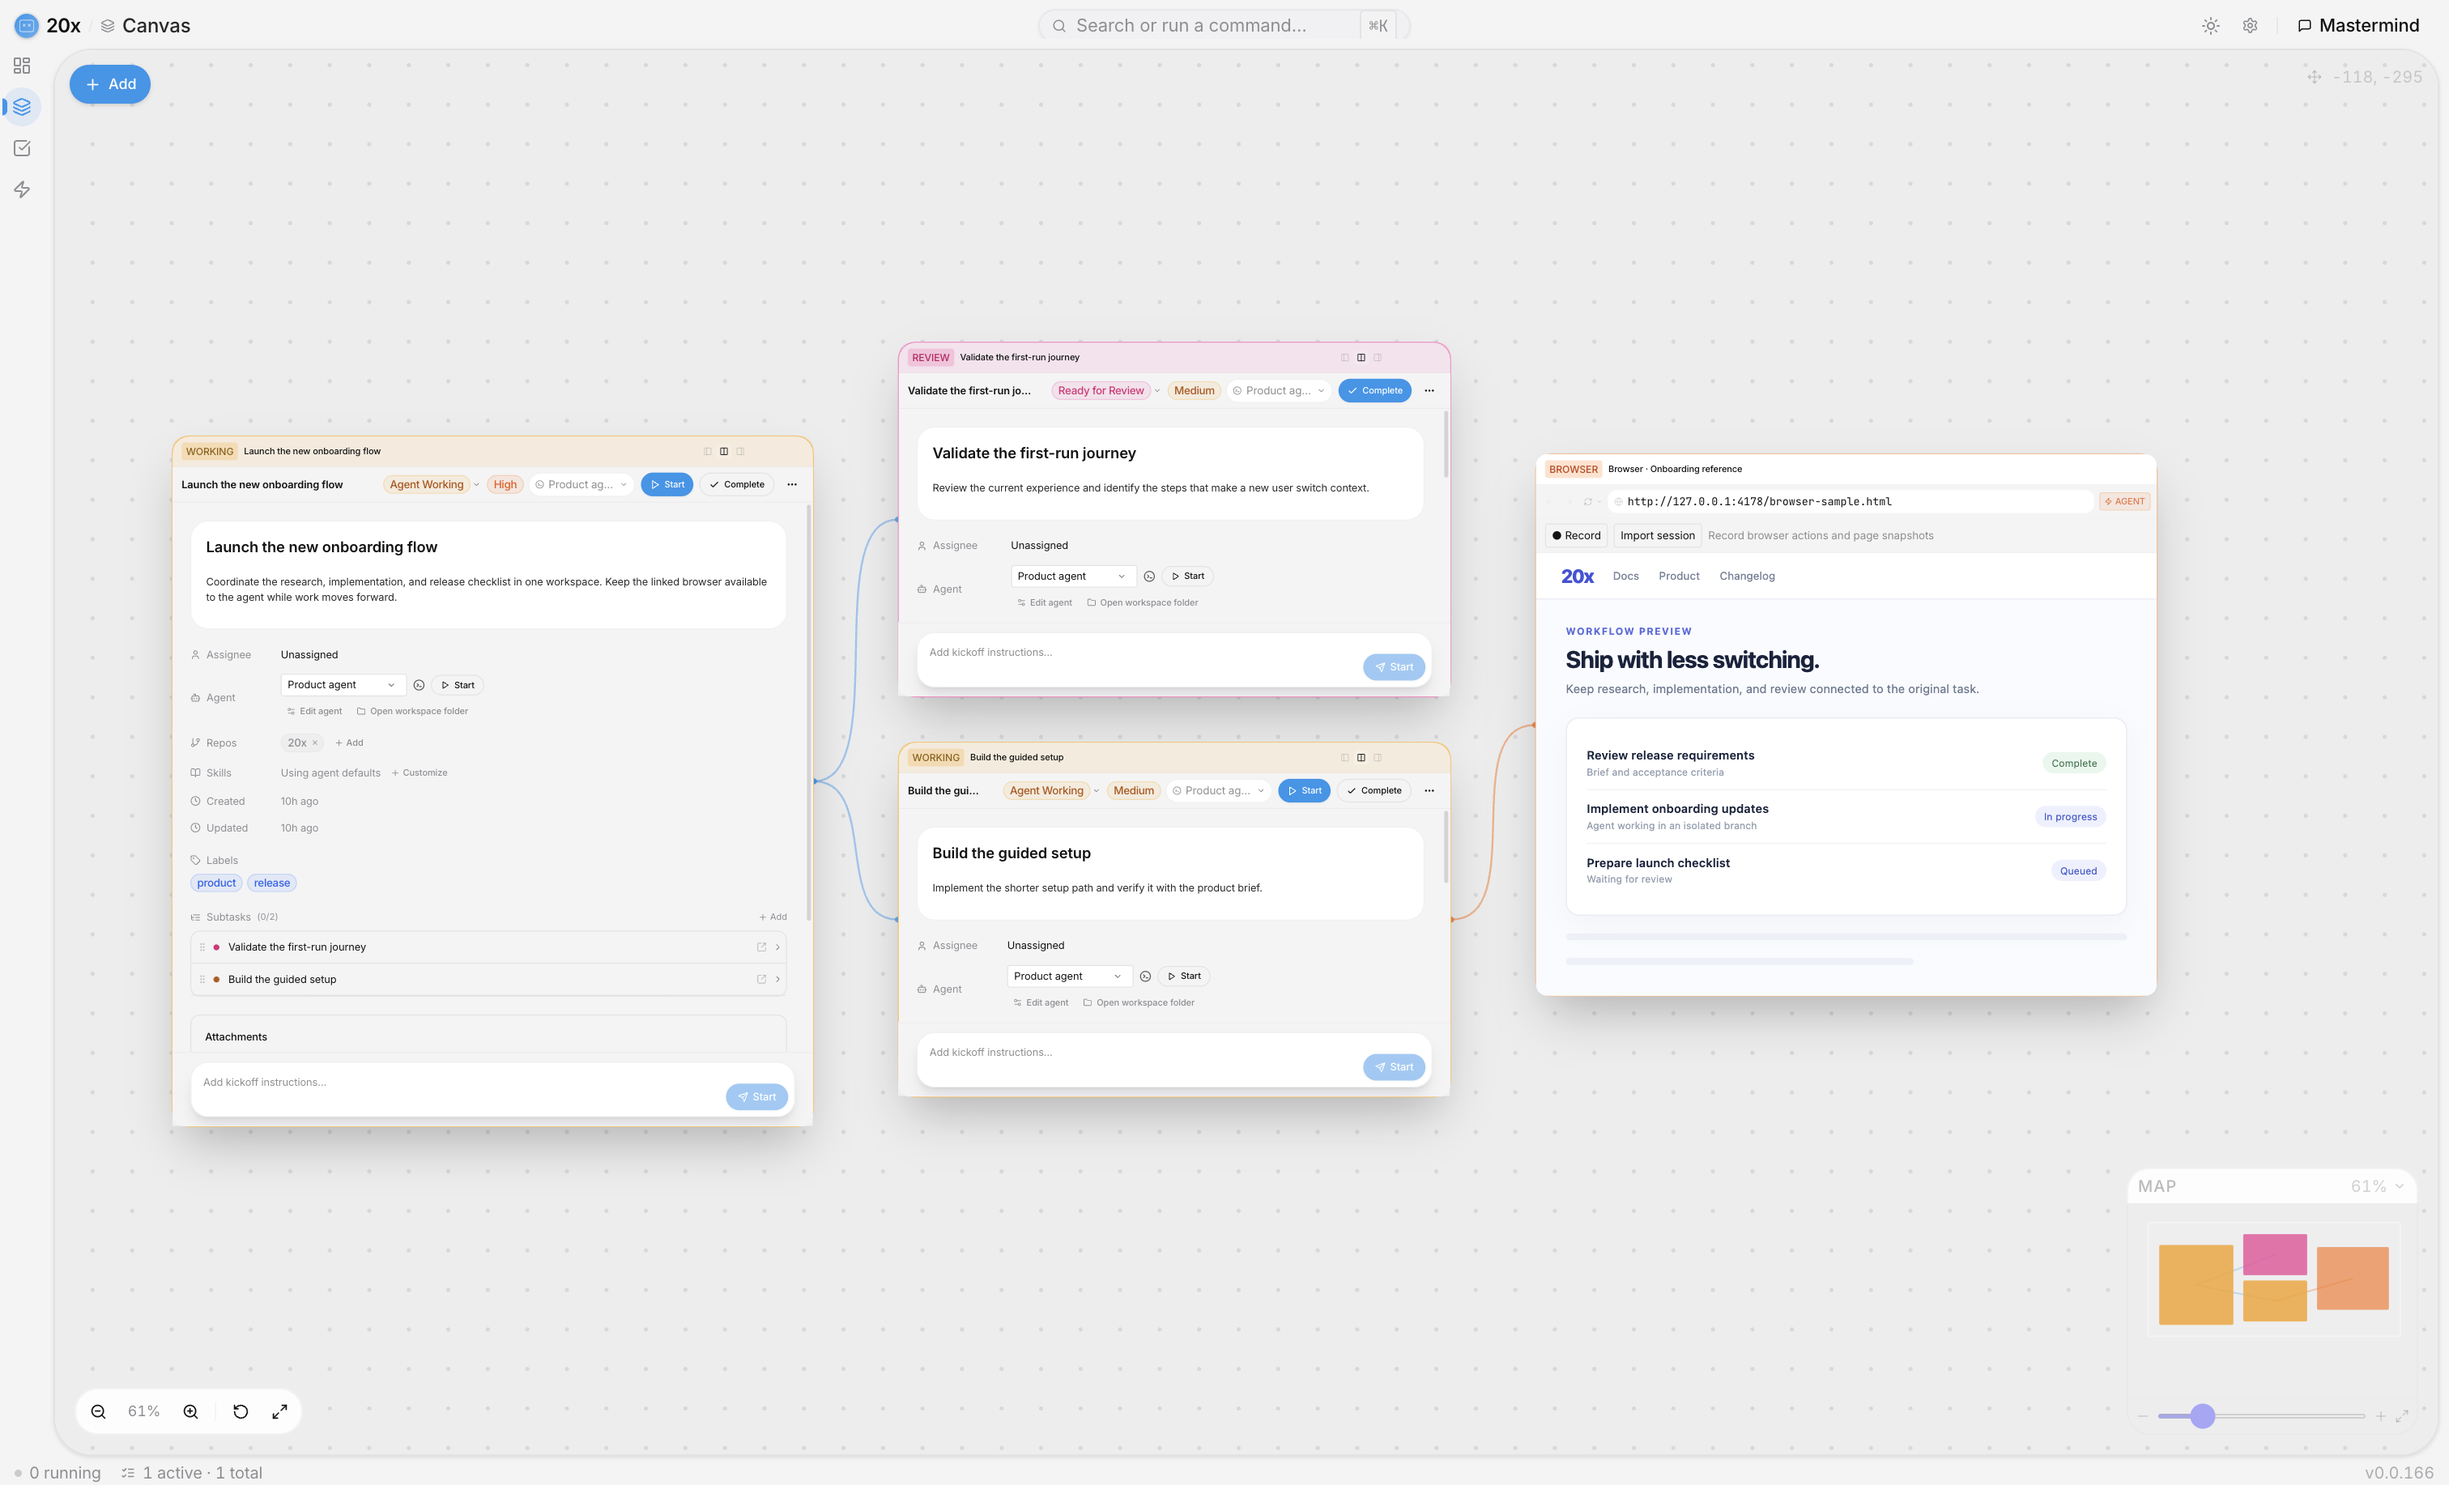
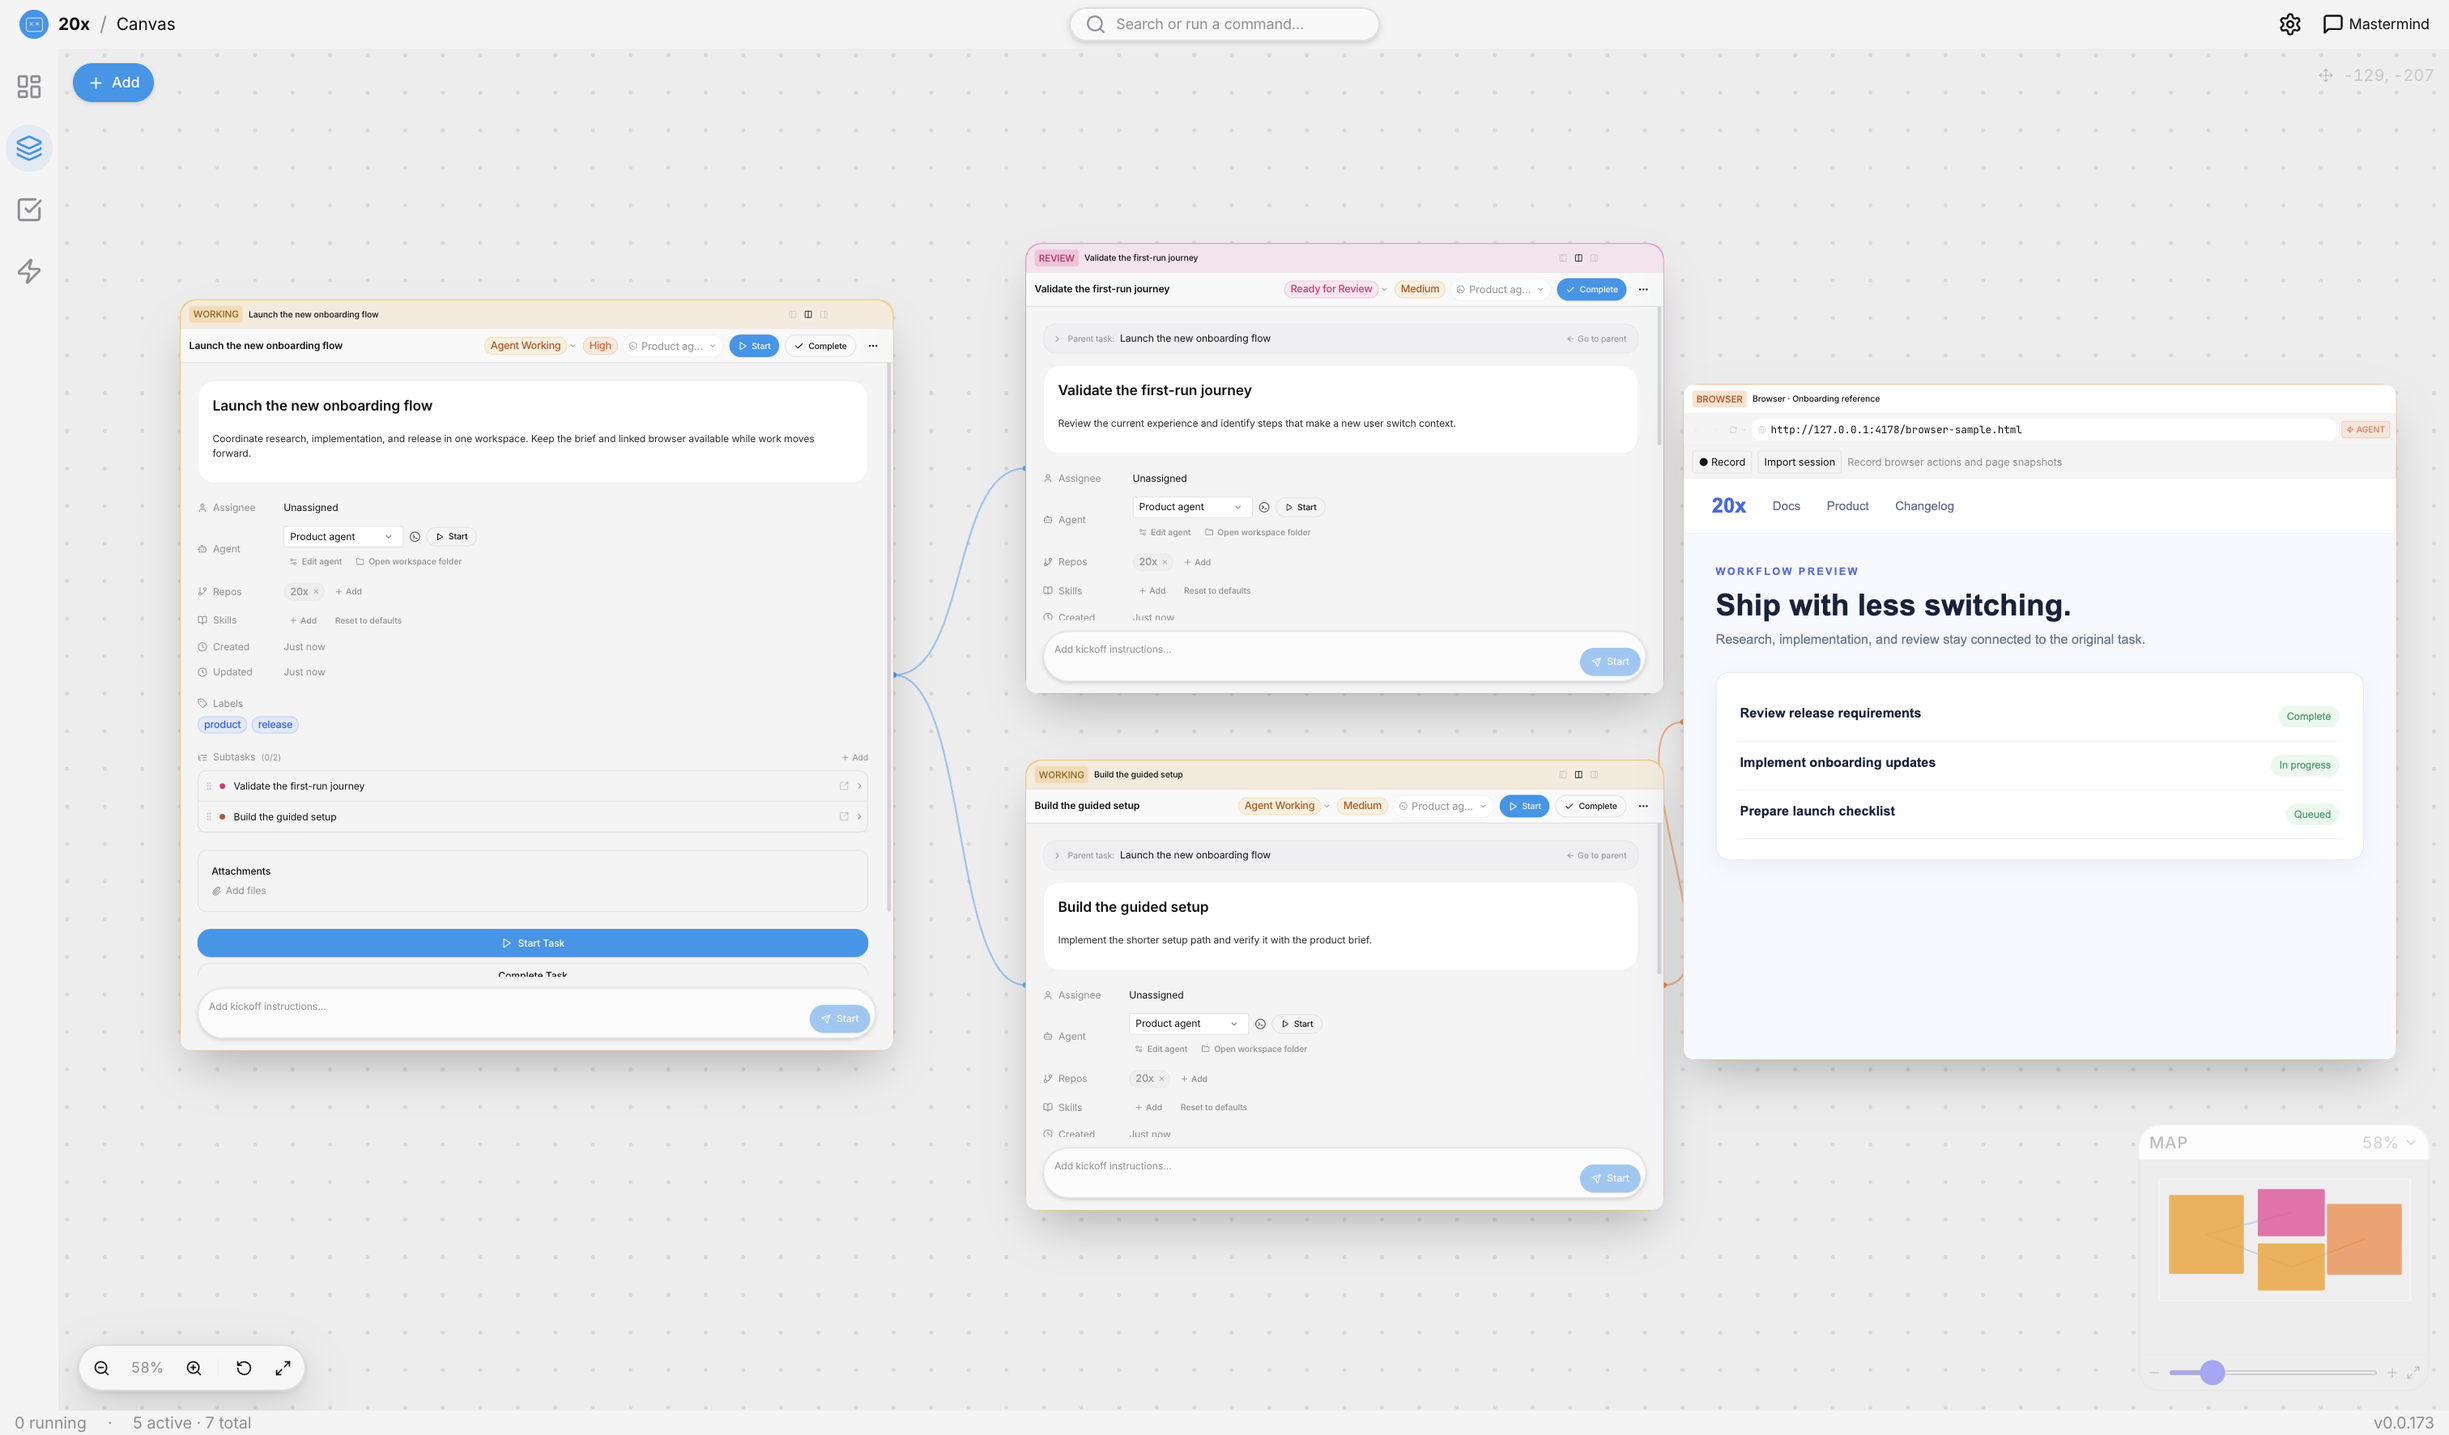
docs: replace stale README media with current app captures

diff --git a/README.md b/README.md
@@ -19,13 +19,13 @@
 
 **No cloud. No subscriptions. Everything runs on your machine.**
 
-<p align="center">
-  <img src="resources/product-demo.gif" alt="20x product demo" />
-</p>
-
 ## Fewer small decisions. Less handholding.
 
 Hand off the work once. Mastermind helps plan and coordinate subtasks. Triage proposes a priority, harness, skills, and repository. Canvas keeps related tasks and an embedded browser visible together. You step in for approvals and review the result on the task, without rebuilding context across chats and tabs.
+
+<p align="center">
+  <img src="docs/screenshots/readme-canvas-light.png" alt="20x canvas in light mode with a parent task linked to research and implementation subtasks and an embedded browser" width="960" />
+</p>
 
 1. **Bring in the task.** Connect a task source or create a task in 20x. Its brief stays attached.
 2. **Let 20x set up the work.** Ask Mastermind to break down the task; triage proposes the setup and the agent works from that context.
@@ -38,10 +38,6 @@ Hand off the work once. Mastermind helps plan and coordinate subtasks. Triage pr
 
 ## How It Works
 
-<p align="center">
-  <img src="resources/process.png" alt="20x process: Hubspot, YouTrack, Linear, Github issues, Peakflo Workflo → triage agent → Agent (Claude Code, Opencode, OpenAI Codex, Cursor, Pi) → HITL review → Feedback" />
-</p>
-
 1. **Tasks flow in** — from Linear, YouTrack, HubSpot, GitHub Issues, Notion, Peakflo Workflo, or created manually
 2. **Mastermind and triage** — Break down work and propose priority, coding harness, relevant skills, and git repos
 3. **Agent works the task** — reads skills, git worktrees, and MCP servers; streams output in real time
@@ -50,11 +46,7 @@ Hand off the work once. Mastermind helps plan and coordinate subtasks. Triage pr
 
 ## Features
 
-<p align="center">
-  <img src="resources/integrations.png" alt="20x integrations: Hubspot, YouTrack, Linear, Github issues, Peakflo Workflo → 20x ↔ GitLab, Github, MCP → Claude Code, Opencode, OpenAI Codex, Cursor, Pi; Skills automatically improved" />
-</p>
-
-Light mode screenshots below show the app with sample tasks, skills, and browser content.
+Light mode screenshots show the app with sample tasks, skills, and browser content.
 
 ### 🧭 Mastermind and triage
 
@@ -87,16 +79,12 @@ Start with the task instead of choosing an agent and writing a new prompt from s
 The task brief, repository, skills, and agent work log stay in the same view.
 
 <p align="center">
-  <img src="docs/screenshots/readme-agent-work-light.png" alt="20x light mode task showing an agent work log beside the task brief, repository, and skill" width="960" />
+  <img src="docs/screenshots/readme-agent-work-light.png" alt="20x light mode task showing an agent work log beside task details and linked subtasks" width="960" />
 </p>
 
 ### 🕸 Canvas Workspace
 
 Open a parent task and its subtasks as linked panels. Keep an embedded browser beside them so the agent can work with the same reference page you see. Canvas reduces the small decisions of which chat, tab, or task to open next: the brief, related work, and browser remain in view as you move between steps.
-
-<p align="center">
-  <img src="docs/screenshots/readme-canvas-light.png" alt="20x light mode canvas with a parent task linked to two subtasks and an embedded browser linked to the implementation subtask" width="960" />
-</p>
 
 ### 🔗 Smart Integrations
 - **Linear** — Pull issues, update status, post comments
